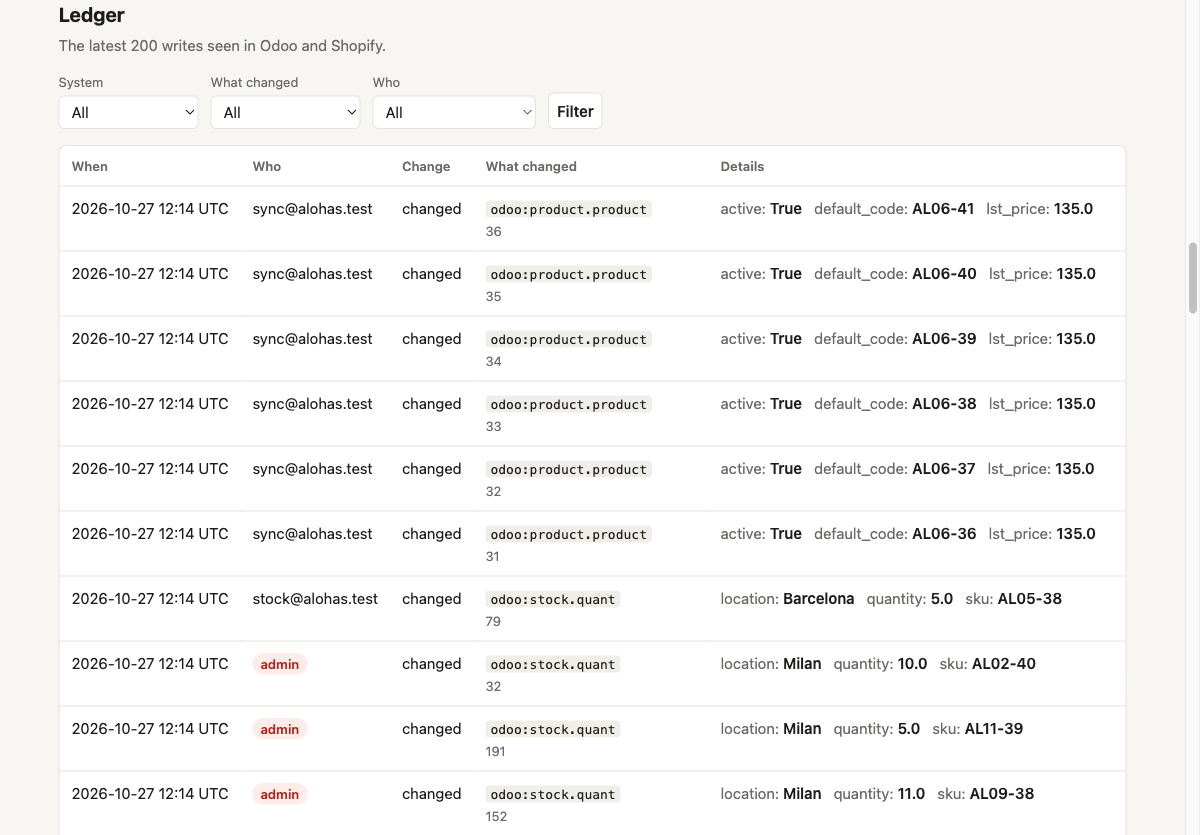
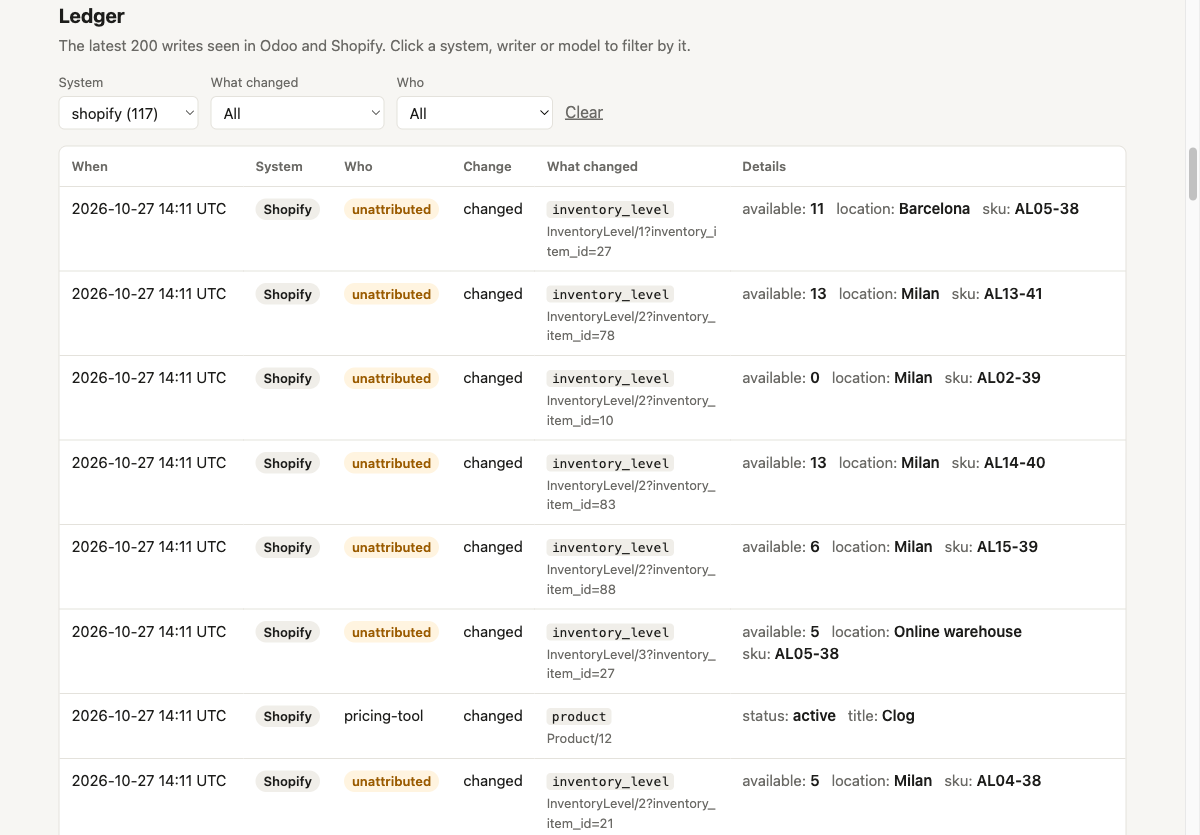
Ledger: system column, filters that narrow and apply at once; check progress
- Each ledger row shows its system. A click on a system, writer or model
  filters by it, keeping the other filters.
- Each filter lists only what the other filters leave, with a count. A choice
  that matches nothing stays selected, at 0.
- Filters apply as soon as one changes, and "Run check now" shows "Checking…"
  while it runs. One same-origin script does both: the CSP gains
  `script-src 'self'` only, no inline code, and the page still works without it.
- The last check time sits next to the button, to the second.
- Fix: a second `make traffic` crashed once Odoo's scheduler had deleted a
  stock quant that reached zero. Counting stock there now makes a new one.

Claude-Session: https://claude.ai/code/session_01QBDa2CPnPWx9NPp8T8psoh

diff --git a/app/templates/index.html b/app/templates/index.html
@@ -5,9 +5,13 @@
   <meta name="viewport" content="width=device-width, initial-scale=1">
   <title>Writers Ledger</title>
   <link rel="stylesheet" href="/style.css">
+  <script src="/page.js" defer></script>
 </head>
 <body>
 {% macro when(value) %}{% if value %}{{ value[:16] | replace("T", " ") }} UTC{% else %}never{% endif %}{% endmacro %}
+{# A link to the ledger filtered by one more value, keeping the filters already set. #}
+{% macro only(name, value) %}?{{ dict(filters, **{name: value}) | dictsort | selectattr(1) | list | urlencode }}#ledger{% endmacro %}
+{% macro shown(value) %}{% if value is float and value == value | int %}{{ value | int }}{% elif value is iterable and value is not string %}{{ value | join(", ") }}{% else %}{{ value }}{% endif %}{% endmacro %}
 <header>
   <h1>Writers Ledger</h1>
   <p class="lede">Every change made to Odoo and Shopify, who made it, and whether they were allowed to.</p>
@@ -32,7 +36,10 @@
   <section id="findings">
     <div class="section-head">
       <h2>Findings</h2>
-      <form method="post" action="/check"><button type="submit">Run check now</button></form>
+      <form method="post" action="/check">
+        {% if last_check %}<span class="muted">Last check {{ last_check[11:19] }} UTC</span>{% endif %}
+        <button type="submit" data-busy="Checking…">Run check now</button>
+      </form>
     </div>
     <p class="hint">Things that need a person's attention, most urgent first. The check runs every few seconds.</p>
     {% if register_error %}
@@ -135,14 +142,18 @@
 
   <section id="ledger">
     <h2>Ledger</h2>
-    <p class="hint">The latest 200 writes seen in Odoo and Shopify.</p>
+    <p class="hint">The latest 200 writes seen in Odoo and Shopify. Click a system, writer or model to filter by it.</p>
     <form class="filters" method="get" action="/#ledger">
       {% for name, label in [("system", "System"), ("model", "What changed"), ("identity", "Who")] %}
+      {% set values = options[name] | map("first") | list %}
       <label>{{ label }}
         <select name="{{ name }}">
           <option value="">All</option>
-          {% for value in options[name] %}
-          <option value="{{ value }}" {{ "selected" if filters[name] == value }}>{{ value }}</option>
+          {% if filters[name] and filters[name] not in values %}
+          <option value="{{ filters[name] }}" selected>{{ filters[name] }} (0)</option>
+          {% endif %}
+          {% for value, count in options[name] %}
+          <option value="{{ value }}"{{ " selected" if filters[name] == value }}>{{ value }} ({{ count }})</option>
           {% endfor %}
         </select>
       </label>
@@ -152,20 +163,20 @@
     </form>
     {% if writes %}
     <div class="table-wrap">
-      <table>
+      <table class="ledger">
         <thead>
-          <tr><th>When</th><th>Who</th><th>Change</th><th>What changed</th><th>Details</th></tr>
+          <tr><th>When</th><th>System</th><th>Who</th><th>Change</th><th>What changed</th><th>Details</th></tr>
         </thead>
         <tbody>
         {% for w in writes %}
           <tr>
             <td class="nowrap">{{ when(w.written_at) }}</td>
-            <td>{% if (w.system, w.identity) in unregistered %}<span class="badge red">{{ w.identity }}</span>
-              {% elif w.identity == "unattributed" %}<span class="badge amber">unattributed</span>
-              {% else %}{{ w.identity }}{% endif %}</td>
+            <td><a class="badge system" href="{{ only("system", w.system) }}">{{ w.system | capitalize }}</a></td>
+            <td><a class="pick{% if (w.system, w.identity) in unregistered %} badge red{% elif w.identity == "unattributed" %} badge amber{% endif %}"
+                   href="{{ only("identity", w.identity) }}">{{ w.identity }}</a></td>
             <td>{{ "created" if w.action == "create" else "changed" }}</td>
-            <td><code>{{ w.system }}:{{ w.model }}</code><div class="ref">{{ w.record_ref | replace("gid://shopify/", "") }}</div></td>
-            <td class="details">{% for key, value in w.payload.items() %}<span>{{ key }}: <strong>{{ value | join(", ") if value is iterable and value is not string else value }}</strong></span>{% endfor %}</td>
+            <td><a class="pick" href="{{ only("model", w.model) }}"><code>{{ w.model }}</code></a><div class="ref">{{ w.record_ref | replace("gid://shopify/", "") }}</div></td>
+            <td class="details">{% for key, value in w.payload.items() %}<span>{{ key }}: <strong>{{ shown(value) }}</strong></span>{% endfor %}</td>
           </tr>
         {% endfor %}
         </tbody>

diff --git a/app/static/style.css b/app/static/style.css
@@ -91,6 +91,11 @@ code {
 
 .badge.red { background: var(--red-soft); color: var(--red); }
 .badge.amber { background: var(--amber-soft); color: var(--amber); }
+.badge.system { background: var(--code); color: var(--text); }
+
+/* Values in the ledger table are links that filter by them: plain text until hovered. */
+.ledger a { color: inherit; text-decoration: none; }
+.ledger a:hover, .ledger a:focus-visible { text-decoration: underline; }
 
 footer {
   margin-top: 48px;
@@ -116,6 +121,7 @@ tr.unattributed td { background: var(--amber-soft); }
 }
 
 .filters label { display: grid; gap: 4px; font-size: 13px; color: var(--muted); }
+.filters a { padding: 6px 0; color: var(--muted); }
 
 .filters select, .filters button, .section-head button {
   min-width: 140px;
@@ -131,7 +137,22 @@ tr.unattributed td { background: var(--amber-soft); }
 .filters button, .section-head button { min-width: 0; cursor: pointer; font-weight: 600; }
 
 .section-head { display: flex; flex-wrap: wrap; gap: 12px; align-items: center; justify-content: space-between; }
-.section-head form { margin: 0; }
+.section-head form { display: flex; gap: 12px; align-items: center; margin: 0; font-size: 14px; }
+.section-head button[disabled] { cursor: progress; opacity: 0.7; }
+.section-head button[disabled]::before {
+  content: "";
+  display: inline-block;
+  width: 0.8em;
+  height: 0.8em;
+  margin-right: 8px;
+  border: 2px solid currentColor;
+  border-right-color: transparent;
+  border-radius: 50%;
+  vertical-align: -1px;
+  animation: spin 0.8s linear infinite;
+}
+@keyframes spin { to { transform: rotate(360deg); } }
+@media (prefers-reduced-motion: reduce) { .section-head button[disabled]::before { animation: none; } }
 .section-head button { padding: 6px 12px; }
 
 .finding {

diff --git a/app/static/page.js b/app/static/page.js
@@ -1,0 +1,18 @@
+// The page works without this file; it only makes two things quicker to use.
+
+// Filters apply as soon as one changes. The Filter button is for browsers without JavaScript.
+for (const form of document.querySelectorAll("form.filters")) {
+  form.querySelector("button[type=submit]").hidden = true;
+  form.addEventListener("change", () => form.requestSubmit());
+}
+
+// A button with data-busy says so while its form is being answered, and can't be pressed twice.
+for (const button of document.querySelectorAll("button[data-busy]")) {
+  button.form.addEventListener("submit", () => {
+    button.disabled = true;
+    button.textContent = button.dataset.busy;
+  });
+}
+
+// Coming back with the browser's Back button can restore a page still saying "Checking…".
+addEventListener("pageshow", (event) => event.persisted && location.reload());

diff --git a/tests/test_main.py b/tests/test_main.py
@@ -101,7 +101,7 @@ def test_security_headers_on_every_response(client):
     for response in (client.get("/", auth=AUTH), client.get("/healthz"), client.get("/")):
         csp = response.headers["content-security-policy"]
         assert "default-src 'none'" in csp and "frame-ancestors 'none'" in csp
-        assert "script-src" not in csp
+        assert "script-src 'self';" in csp and "unsafe" not in csp  # our own file only, never inline code
         assert response.headers["x-content-type-options"] == "nosniff"
 
 
@@ -118,6 +118,22 @@ def test_stylesheet_is_served(client):
     response = client.get("/style.css", auth=AUTH)
     assert response.status_code == 200
     assert response.headers["content-type"].startswith("text/css")
+
+
+def test_script_is_served_behind_the_login(client):
+    assert client.get("/page.js").status_code == 401
+    response = client.get("/page.js", auth=AUTH)
+    assert response.status_code == 200
+    assert response.headers["content-type"].startswith("text/javascript")  # nosniff refuses any other type
+
+
+def test_page_has_no_inline_script(client):
+    page = client.get("/", auth=AUTH).text
+    assert page.count("<script") == page.count('<script src="/page.js" defer></script>') == 1
+
+
+def test_run_check_now_says_it_is_running(client):
+    assert 'data-busy="Checking…"' in client.get("/", auth=AUTH).text
 
 
 def test_register_text_is_escaped(monkeypatch, tmp_path):
@@ -165,6 +181,39 @@ def test_ledger_filters_by_query_string(client, db_path):
     page = client.get("/?system=shopify", auth=AUTH).text
     assert "Product/9" in page
     assert "AL01-36" not in page
+
+
+def test_ledger_shows_the_system_of_each_write(client, db_path):
+    seen(db_path)
+    seen(db_path, system="shopify", model="order", record_ref="gid://shopify/Order/3", identity="Online Store")
+    page = client.get("/", auth=AUTH).text
+    assert '<th>System</th>' in page
+    assert 'href="?system=odoo#ledger">Odoo</a>' in page
+    assert 'href="?system=shopify#ledger">Shopify</a>' in page
+
+
+def test_a_click_on_a_write_filters_by_it_and_keeps_the_other_filters(client, db_path):
+    seen(db_path, system="shopify", model="order", record_ref="gid://shopify/Order/3", identity="Online Store")
+    page = client.get("/?system=shopify", auth=AUTH).text
+    assert 'href="?identity=Online+Store&amp;system=shopify#ledger"' in page
+    assert 'href="?model=order&amp;system=shopify#ledger"' in page
+
+
+def test_filter_lists_only_what_the_other_filters_leave_with_counts(client, db_path):
+    seen(db_path)
+    seen(db_path, record_ref="8")
+    seen(db_path, system="shopify", model="product", record_ref="gid://shopify/Product/9", identity="pricing-tool")
+    page = client.get("/?system=shopify", auth=AUTH).text
+    assert '<option value="product">product (1)</option>' in page
+    assert '<option value="stock.quant"' not in page
+    assert '<option value="odoo">odoo (2)</option>' in page  # the system list itself stays whole
+
+
+def test_a_filter_that_matches_nothing_keeps_its_choice(client, db_path):
+    seen(db_path)
+    page = client.get("/?system=shopify&model=stock.quant", auth=AUTH).text
+    assert '<option value="stock.quant" selected>stock.quant (0)</option>' in page
+    assert "No writes recorded yet for this filter" in page
 
 
 def test_odd_filter_values_are_harmless(client, db_path):

diff --git a/app/ledger.py b/app/ledger.py
@@ -79,17 +79,28 @@ def record_write(conn, write: dict) -> bool:
     return cur.rowcount == 1
 
 
-def latest_writes(conn, limit=200, **filters) -> list[dict]:
+def matching(filters: dict) -> tuple[str, list]:
+    """A WHERE clause for exact-match filters. Column names come from FILTERS, values are parameters."""
     if unknown := set(filters) - set(FILTERS):
         raise ValueError(f"unknown filter {unknown}")
-    where = [(f"{k} = ?", v) for k, v in filters.items() if v]
-    sql = "SELECT * FROM writes" + (" WHERE " + " AND ".join(w for w, _ in where) if where else "")
-    rows = conn.execute(sql + " ORDER BY written_at DESC, id DESC LIMIT ?", [v for _, v in where] + [limit])
+    used = {k: v for k, v in filters.items() if v}
+    return (" WHERE " + " AND ".join(f"{k} = ?" for k in used) if used else ""), list(used.values())
+
+
+def latest_writes(conn, limit=200, **filters) -> list[dict]:
+    where, values = matching(filters)
+    rows = conn.execute(f"SELECT * FROM writes{where} ORDER BY written_at DESC, id DESC LIMIT ?", [*values, limit])
     return [dict(r) | {"payload": json.loads(r["payload"])} for r in rows]
 
 
-def filter_options(conn) -> dict[str, list[str]]:
-    return {k: [r[0] for r in conn.execute(f"SELECT DISTINCT {k} FROM writes ORDER BY 1")] for k in FILTERS}
+def filter_options(conn, **filters) -> dict[str, list[tuple[str, int]]]:
+    """Each filter's values and counts under the other filters: a filter never narrows its own list."""
+    options = {}
+    for k in FILTERS:
+        where, values = matching({other: v for other, v in filters.items() if other != k})
+        options[k] = [tuple(r) for r in conn.execute(f"SELECT {k}, count(*) FROM writes{where} GROUP BY 1 ORDER BY 1",
+                                                     values)]
+    return options
 
 
 def activity(conn) -> dict[tuple[str, str], dict]:

diff --git a/app/main.py b/app/main.py
@@ -36,7 +36,7 @@ CLAUDE = triage.client()  # None without ANTHROPIC_API_KEY: triage is off
 ODOO_CACHE = {}  # logins, SKUs and locations already looked up
 
 SECURITY_HEADERS = {
-    "Content-Security-Policy": "default-src 'none'; style-src 'self'; img-src 'self'; "
+    "Content-Security-Policy": "default-src 'none'; script-src 'self'; style-src 'self'; img-src 'self'; "
     "form-action 'self'; base-uri 'none'; frame-ancestors 'none'",
     "X-Content-Type-Options": "nosniff",
     "X-Frame-Options": "DENY",
@@ -169,7 +169,7 @@ def index(request: Request, system: str = "", model: str = "", identity: str = "
     with closing(ledger.connect(LEDGER_DB)) as conn:
         unknown, rows = writer_rows(writers, ledger.activity(conn))
         context = {"unknown": unknown, "writers": rows, "filters": filters, "loc": LOC,
-                   "writes": ledger.latest_writes(conn, **filters), "options": ledger.filter_options(conn),
+                   "writes": ledger.latest_writes(conn, **filters), "options": ledger.filter_options(conn, **filters),
                    "findings": rules.rank(with_triage(ledger.list_findings(conn), ledger.latest_triage(conn))),
                    "last_check": ledger.get_cursor(conn, "check:last"), "register_error": problem,
                    "triage_on": CLAUDE is not None, "cost": ledger.last_run_cost(conn)}
@@ -191,6 +191,11 @@ def check_now(request: Request):
 @pages.get("/style.css")
 def stylesheet():
     return FileResponse(HERE / "static" / "style.css", media_type="text/css")
+
+
+@pages.get("/page.js")
+def script():
+    return FileResponse(HERE / "static" / "page.js", media_type="text/javascript")
 
 
 app.include_router(pages)

diff --git a/sim/traffic.py b/sim/traffic.py
@@ -59,12 +59,16 @@ def sync_order(odoo: Odoo, products: dict, skus: list[str]) -> None:
 
 def adjust_stock(odoo: Odoo, products: dict, locations: dict, sku: str, location: str) -> int:
     """stock-cron: counts stock in Odoo; returns the new quantity to push to Shopify."""
-    domain = [["product_id", "=", products[sku]], ["location_id", "=", locations[location]]]
-    [quant] = odoo("stock.quant", "search_read", domain=domain, fields=["quantity"])
-    quantity = max(0, int(quant["quantity"]) + rng.choice([-2, -1, 1, 2, 3]))
+    where = {"product_id": products[sku], "location_id": locations[location]}
+    quants = odoo("stock.quant", "search_read", domain=[[k, "=", v] for k, v in where.items()], fields=["quantity"])
+    quantity = max(0, int(quants[0]["quantity"] if quants else 0) + rng.choice([-2, -1, 1, 2, 3]))
     context = {"inventory_mode": True}
-    odoo("stock.quant", "write", ids=[quant["id"]], vals={"inventory_quantity": quantity}, context=context)
-    odoo("stock.quant", "action_apply_inventory", ids=[quant["id"]], context=context)
+    if quants:
+        ids = [quants[0]["id"]]
+        odoo("stock.quant", "write", ids=ids, vals={"inventory_quantity": quantity}, context=context)
+    else:  # Odoo's scheduler deletes a quant that reached zero; counting stock there makes a new one
+        ids = odoo("stock.quant", "create", vals_list=[where | {"inventory_quantity": quantity}], context=context)
+    odoo("stock.quant", "action_apply_inventory", ids=ids, context=context)
     return quantity
 
 

diff --git a/tests/test_traffic.py b/tests/test_traffic.py
@@ -1,0 +1,29 @@
+from sim import traffic
+
+
+class Odoo:
+    """Answers the JSON-2 calls the traffic makes, and keeps them."""
+
+    def __init__(self, quants):
+        self.quants, self.calls = quants, []
+
+    def __call__(self, model, method, **params):
+        self.calls.append((model, method, params))
+        return {"search_read": self.quants, "create": [99]}.get(method, True)
+
+
+def test_a_stock_count_brings_back_a_quant_odoo_deleted_at_zero():
+    # Odoo's scheduler deletes empty quants, so a second `make traffic` found none and crashed.
+    odoo = Odoo(quants=[])
+    quantity = traffic.adjust_stock(odoo, {"AL10-39": 5}, {"Milan": 14}, "AL10-39", "Milan")
+    [(_, _, created)] = [c for c in odoo.calls if c[1] == "create"]
+    assert created["vals_list"] == [{"product_id": 5, "location_id": 14, "inventory_quantity": quantity}]
+    assert ("stock.quant", "action_apply_inventory", {"ids": [99], "context": {"inventory_mode": True}}) in odoo.calls
+
+
+def test_a_stock_count_updates_the_quant_that_is_there():
+    odoo = Odoo(quants=[{"id": 7, "quantity": 4.0}])
+    quantity = traffic.adjust_stock(odoo, {"AL01-36": 5}, {"Milan": 14}, "AL01-36", "Milan")
+    assert ("stock.quant", "write", {"ids": [7], "vals": {"inventory_quantity": quantity},
+                                     "context": {"inventory_mode": True}}) in odoo.calls
+    assert not [c for c in odoo.calls if c[1] == "create"]

diff --git a/tests/test_ledger.py b/tests/test_ledger.py
@@ -72,10 +72,25 @@ def test_filter_options_list_distinct_values(db):
     ledger.record_write(db, write(record_ref="8"))
     ledger.record_write(db, write(system="shopify", model="product", record_ref="9", identity="pricing-tool"))
     assert ledger.filter_options(db) == {
-        "system": ["odoo", "shopify"],
-        "model": ["product", "stock.quant"],
-        "identity": ["pricing-tool", "stock@alohas.test"],
+        "system": [("odoo", 2), ("shopify", 1)],
+        "model": [("product", 1), ("stock.quant", 2)],
+        "identity": [("pricing-tool", 1), ("stock@alohas.test", 2)],
     }
+
+
+def test_filter_options_count_only_what_the_other_filters_leave(db):
+    ledger.record_write(db, write())
+    ledger.record_write(db, write(record_ref="8"))
+    ledger.record_write(db, write(system="shopify", model="product", record_ref="9", identity="pricing-tool"))
+    options = ledger.filter_options(db, system="shopify", model="", identity="")
+    assert options["model"] == [("product", 1)]
+    assert options["identity"] == [("pricing-tool", 1)]
+    assert options["system"] == [("odoo", 2), ("shopify", 1)]  # a filter never narrows its own list
+
+
+def test_filter_options_reject_unknown_filters(db):
+    with pytest.raises(ValueError, match="unknown filter"):
+        ledger.filter_options(db, payload="anything")
 
 
 def test_activity_counts_writes_per_identity(db):
